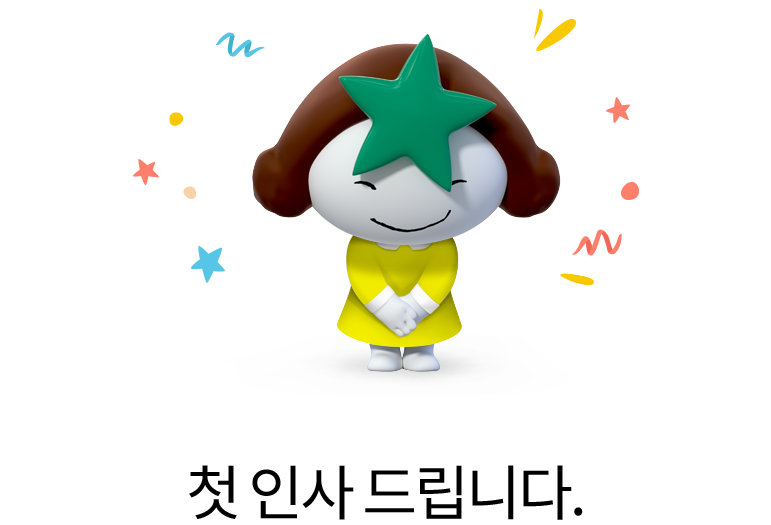
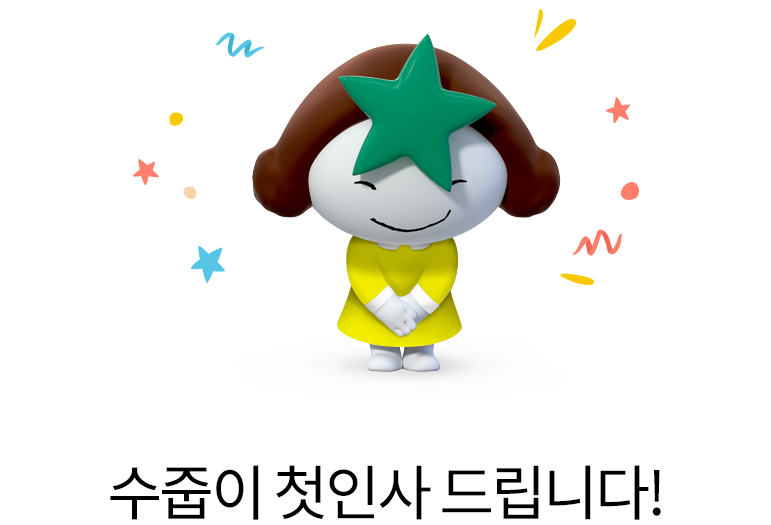
공유카드 수정

Changed region(s): [[0.1245, 0.8838, 0.8716, 1.0]]

diff --git a/pub/resource/html/BFXM/BFXM01/sharecard.html b/pub/resource/html/BFXM/BFXM01/sharecard.html
@@ -41,7 +41,7 @@
             <div class="button-contained-wrap mgt30">
                 <button type="button" class="button-square button-square--mini button-square--blue" data-element="modal__open" data-target="#badge-0201">수줍이</button>
                 <button type="button" class="button-square button-square--mini button-square--blue" data-element="modal__open" data-target="#badge-0202">열심이</button>
-                <button type="button" class="button-square button-square--mini button-square--blue" data-element="modal__open" data-target="#badge-0203">FX인싸</button>
+                <button type="button" class="button-square button-square--mini button-square--blue" data-element="modal__open" data-target="#badge-0203">유명이</button>
             </div>
             <div class="button-contained-wrap mgt30">
                 <button type="button" class="button-square button-square--mini button-square--blue" data-element="modal__open" data-target="#badge-0301">환린이</button>
@@ -105,8 +105,8 @@
                         * 데이터가 초기에 자동으로 입력되어 있을때 class="input input--on"
                     -->
                     <div class="input__inner">
-                        <input type="text" id="inputText01" class="input__element" title="한줄입력" value="">
-                        <label for="inputText01" class="input__label" aria-hidden="true">한줄입력</label>
+                        <input type="text" id="inputText01" class="input__element" title="한 줄 입력할 수 있어요" value="">
+                        <label for="inputText01" class="input__label" aria-hidden="true">한 줄 입력할 수 있어요</label>
                         <button type="button" class="input__remove-button" title="텍스트삭제" style="display: none;"></button>
                     </div>
                     <!-- 에러 메시지 -->
@@ -132,7 +132,7 @@
         빅핸드 > img_badge_0103.png
         수줍이 > img_badge_0201.png
         열심이 > img_badge_0202.png
-        FX인싸 > img_badge_0203.png
+        유명이 > img_badge_0203.png
         환린이 > img_badge_0301.png
         환율킹 > img_badge_0302.png
         환율갓 > img_badge_0303.png
@@ -159,8 +159,8 @@
                         * 데이터가 초기에 자동으로 입력되어 있을때 class="input input--on"
                     -->
                     <div class="input__inner">
-                        <input type="text" id="inputText0101" class="input__element" title="한줄입력" value="">
-                        <label for="inputText0101" class="input__label" aria-hidden="true">한줄입력</label>
+                        <input type="text" id="inputText0101" class="input__element" title="한 줄 입력할 수 있어요" value="">
+                        <label for="inputText0101" class="input__label" aria-hidden="true">한 줄 입력할 수 있어요</label>
                         <button type="button" class="input__remove-button" title="텍스트삭제" style="display: none;"></button>
                     </div>
                     <!-- 에러 메시지 -->
@@ -200,8 +200,8 @@
                         * 데이터가 초기에 자동으로 입력되어 있을때 class="input input--on"
                     -->
                     <div class="input__inner">
-                        <input type="text" id="inputText0102" class="input__element" title="한줄입력" value="">
-                        <label for="inputText0102" class="input__label" aria-hidden="true">한줄입력</label>
+                        <input type="text" id="inputText0102" class="input__element" title="한 줄 입력할 수 있어요" value="">
+                        <label for="inputText0102" class="input__label" aria-hidden="true">한 줄 입력할 수 있어요</label>
                         <button type="button" class="input__remove-button" title="텍스트삭제" style="display: none;"></button>
                     </div>
                     <!-- 에러 메시지 -->
@@ -241,8 +241,8 @@
                         * 데이터가 초기에 자동으로 입력되어 있을때 class="input input--on"
                     -->
                     <div class="input__inner">
-                        <input type="text" id="inputText0103" class="input__element" title="한줄입력" value="">
-                        <label for="inputText0103" class="input__label" aria-hidden="true">한줄입력</label>
+                        <input type="text" id="inputText0103" class="input__element" title="한 줄 입력할 수 있어요" value="">
+                        <label for="inputText0103" class="input__label" aria-hidden="true">한 줄 입력할 수 있어요</label>
                         <button type="button" class="input__remove-button" title="텍스트삭제" style="display: none;"></button>
                     </div>
                     <!-- 에러 메시지 -->
@@ -272,7 +272,7 @@
                     <div class="fx-boast">
                         <img src="../../../../resource/images/fxmarket/img_badge_0201.png" alt="" class="fx-boast__img">
                         <div class="inner-txt align-center">
-                            <strong class="fx-boast__txt">첫 인사 드립니다.</strong>
+                            <strong class="fx-boast__txt">수줍이 첫인사 드립니다.</strong>
                             <span class="fx-boast__subtxt">FX커뮤니티 첫인사</span>
                         </div>
                     </div>
@@ -283,8 +283,8 @@
                         * 데이터가 초기에 자동으로 입력되어 있을때 class="input input--on"
                     -->
                     <div class="input__inner">
-                        <input type="text" id="inputText0201" class="input__element" title="한줄입력" value="">
-                        <label for="inputText0201" class="input__label" aria-hidden="true">한줄입력</label>
+                        <input type="text" id="inputText0201" class="input__element" title="한 줄 입력할 수 있어요" value="">
+                        <label for="inputText0201" class="input__label" aria-hidden="true">한 줄 입력할 수 있어요</label>
                         <button type="button" class="input__remove-button" title="텍스트삭제" style="display: none;"></button>
                     </div>
                     <!-- 에러 메시지 -->
@@ -324,8 +324,8 @@
                         * 데이터가 초기에 자동으로 입력되어 있을때 class="input input--on"
                     -->
                     <div class="input__inner">
-                        <input type="text" id="inputText0202" class="input__element" title="한줄입력" value="">
-                        <label for="inputText0202" class="input__label" aria-hidden="true">한줄입력</label>
+                        <input type="text" id="inputText0202" class="input__element" title="한 줄 입력할 수 있어요" value="">
+                        <label for="inputText0202" class="input__label" aria-hidden="true">한 줄 입력할 수 있어요</label>
                         <button type="button" class="input__remove-button" title="텍스트삭제" style="display: none;"></button>
                     </div>
                     <!-- 에러 메시지 -->
@@ -343,11 +343,11 @@
         </div>
     </div>
     <!-- // 챌린지 배지(열심이) -->
-    <!-- 챌린지 배지(FX인싸) -->
+    <!-- 챌린지 배지(유명이) -->
     <div id="badge-0203" class="modal modal--confirm" data-element="modal__element">
         <div class="modal__container modal__container--interval" data-element="modal__element-container">
             <div class="modal__header">
-                <h1 class="modal__header--title">FX챌린지 FX인싸</h1>
+                <h1 class="modal__header--title">FX챌린지 유명이</h1>
             </div>
             <div class="modal__contents fx-boast__contents">
                 <div class="fx-boastslider" data-slider="arrow1">
@@ -365,8 +365,8 @@
                         * 데이터가 초기에 자동으로 입력되어 있을때 class="input input--on"
                     -->
                     <div class="input__inner">
-                        <input type="text" id="inputText0203" class="input__element" title="한줄입력" value="">
-                        <label for="inputText0203" class="input__label" aria-hidden="true">한줄입력</label>
+                        <input type="text" id="inputText0203" class="input__element" title="한 줄 입력할 수 있어요" value="">
+                        <label for="inputText0203" class="input__label" aria-hidden="true">한 줄 입력할 수 있어요</label>
                         <button type="button" class="input__remove-button" title="텍스트삭제" style="display: none;"></button>
                     </div>
                     <!-- 에러 메시지 -->
@@ -383,7 +383,7 @@
             <button class="modal__btn--close" type="button" data-element="modal__close" title="닫기"></button>
         </div>
     </div>
-    <!-- // 챌린지 배지(FX인싸) -->
+    <!-- // 챌린지 배지(유명이) -->
 
     <!-- 챌린지 배지(환린이) -->
     <div id="badge-0301" class="modal modal--confirm" data-element="modal__element">
@@ -407,8 +407,8 @@
                         * 데이터가 초기에 자동으로 입력되어 있을때 class="input input--on"
                     -->
                     <div class="input__inner">
-                        <input type="text" id="inputText0301" class="input__element" title="한줄입력" value="">
-                        <label for="inputText0301" class="input__label" aria-hidden="true">한줄입력</label>
+                        <input type="text" id="inputText0301" class="input__element" title="한 줄 입력할 수 있어요" value="">
+                        <label for="inputText0301" class="input__label" aria-hidden="true">한 줄 입력할 수 있어요</label>
                         <button type="button" class="input__remove-button" title="텍스트삭제" style="display: none;"></button>
                     </div>
                     <!-- 에러 메시지 -->
@@ -448,8 +448,8 @@
                         * 데이터가 초기에 자동으로 입력되어 있을때 class="input input--on"
                     -->
                     <div class="input__inner">
-                        <input type="text" id="inputText0302" class="input__element" title="한줄입력" value="">
-                        <label for="inputText0302" class="input__label" aria-hidden="true">한줄입력</label>
+                        <input type="text" id="inputText0302" class="input__element" title="한 줄 입력할 수 있어요" value="">
+                        <label for="inputText0302" class="input__label" aria-hidden="true">한 줄 입력할 수 있어요</label>
                         <button type="button" class="input__remove-button" title="텍스트삭제" style="display: none;"></button>
                     </div>
                     <!-- 에러 메시지 -->
@@ -489,8 +489,8 @@
                         * 데이터가 초기에 자동으로 입력되어 있을때 class="input input--on"
                     -->
                     <div class="input__inner">
-                        <input type="text" id="inputText0303" class="input__element" title="한줄입력" value="">
-                        <label for="inputText0303" class="input__label" aria-hidden="true">한줄입력</label>
+                        <input type="text" id="inputText0303" class="input__element" title="한 줄 입력할 수 있어요" value="">
+                        <label for="inputText0303" class="input__label" aria-hidden="true">한 줄 입력할 수 있어요</label>
                         <button type="button" class="input__remove-button" title="텍스트삭제" style="display: none;"></button>
                     </div>
                     <!-- 에러 메시지 -->
@@ -551,8 +551,8 @@
                         * 데이터가 초기에 자동으로 입력되어 있을때 class="input input--on"
                     -->
                     <div class="input__inner">
-                        <input type="text" id="inputText05" class="input__element" title="한줄입력" value="">
-                        <label for="inputText05" class="input__label" aria-hidden="true">한줄입력</label>
+                        <input type="text" id="inputText05" class="input__element" title="한 줄 입력할 수 있어요" value="">
+                        <label for="inputText05" class="input__label" aria-hidden="true">한 줄 입력할 수 있어요</label>
                         <button type="button" class="input__remove-button" title="텍스트삭제" style="display: none;"></button>
                     </div>
                     <!-- 에러 메시지 -->
@@ -605,8 +605,8 @@
                         * 데이터가 초기에 자동으로 입력되어 있을때 class="input input--on"
                     -->
                     <div class="input__inner">
-                        <input type="text" id="inputText06" class="input__element" title="한줄입력" value="">
-                        <label for="inputText06" class="input__label" aria-hidden="true">한줄입력</label>
+                        <input type="text" id="inputText06" class="input__element" title="한 줄 입력할 수 있어요" value="">
+                        <label for="inputText06" class="input__label" aria-hidden="true">한 줄 입력할 수 있어요</label>
                         <button type="button" class="input__remove-button" title="텍스트삭제" style="display: none;"></button>
                     </div>
                     <!-- 에러 메시지 -->
